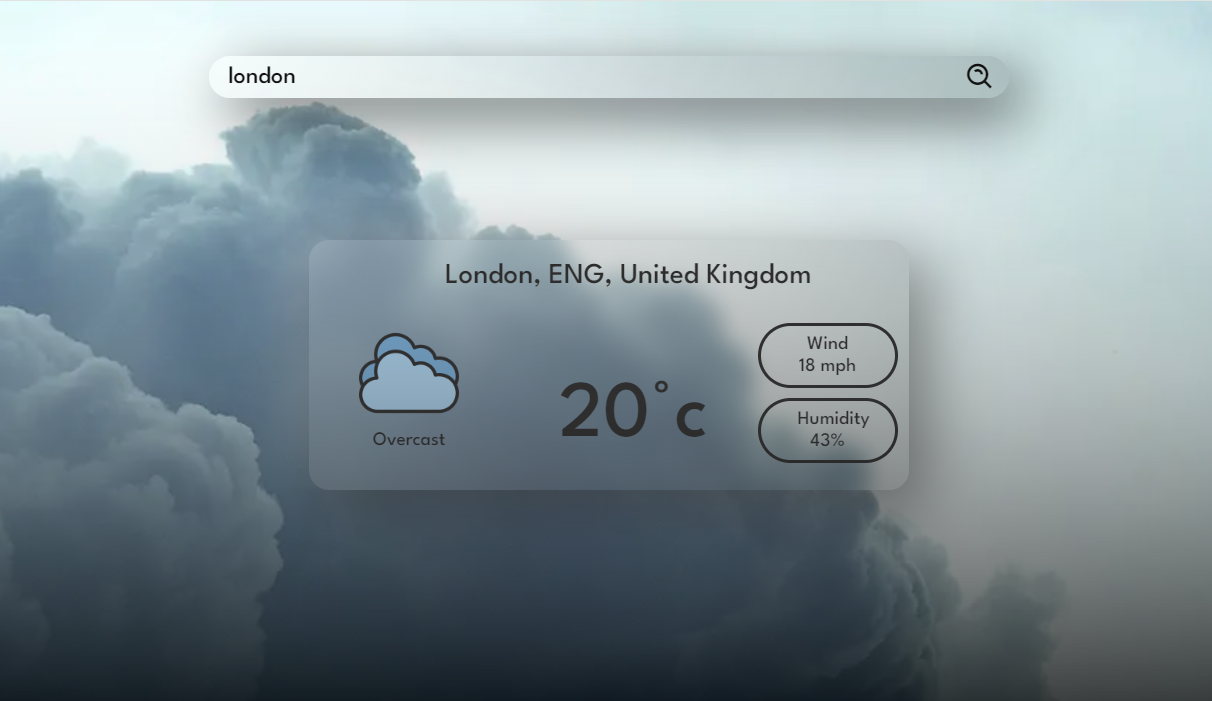
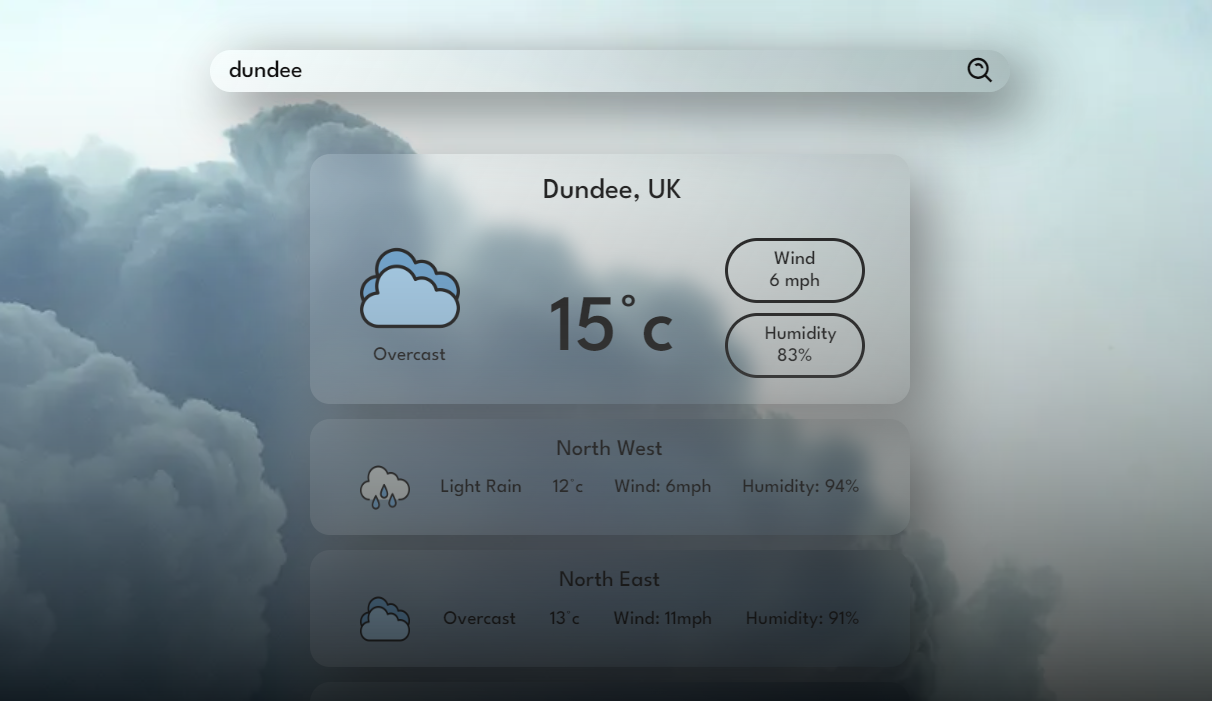
Updated weather section with new API feature

diff --git a/weather.html b/weather.html
@@ -14,28 +14,72 @@
 </head>
 <body>
     <section id="search">
-        <div class="search">
+        <div class="search glass-background">
             <input type="text" id="input" class="input" placeholder="Enter a location..." aria-label="search">
             <button type="button" onclick="displayWeather();" class="submits"><i class='bx bx-search-alt' aria-label="submits"></i></button>
         </div>
     </section>
+
     <section id="report">
-        <div class="report">
-            <h2 id="address" class="address">Address</h2>
+        <div class="report glass-background">
+            <h2 id="address" class="address addressField">Address</h2>
             <div class="weather-wrapper">
-                <img id="weatherImg" src="https://cdn-icons-png.flaticon.com/512/1163/1163739.png" alt="">
-                <p id="weather">Unknown</p>
+                <img class="weatherImgField" src="https://cdn-icons-png.flaticon.com/512/1163/1163739.png" alt="">
+                <p class="weatherField">Unknown</p>
             </div>
-            <h1 class="temperature"><span id="temperature">0</span>°c</h1>
+            <h1 class="temperature"><span class="temperatureField">0</span>°c</h1>
             <div class="other">
                 <div class="wind">
                     <p>Wind</p>
-                    <p><span id="wind">0</span> mph</p>
+                    <p><span class="windField">0</span> mph</p>
                 </div>
                 <div class="humidity">
                     <p>Humidity</p>
-                    <p><span id="humidity">0</span>%</p>
+                    <p><span class="humidityField">0</span>%</p>
                 </div>
+            </div>
+        </div>
+    </section>
+
+    <section id="nearby" >
+        <div class="glass-background">
+            <h3 class="addressField">Address</h3>
+            <div>
+                <img class="weatherImgField" src="https://cdn-icons-png.flaticon.com/512/1163/1163739.png" alt="">
+                <p class="weatherField">Unknown</p>
+                <p><span class="temperatureField">0</span>°c</p>
+                <p>Wind: <span class="windField">0</span>mph</p>
+                <p>Humidity: <span class="humidityField">0</span>%</p>
+            </div>
+        </div>
+        <div class="glass-background">
+            <h3 class="addressField">Address</h3>
+            <div>
+                <img class="weatherImgField" src="https://cdn-icons-png.flaticon.com/512/1163/1163739.png" alt="">
+                <p class="weatherField">Unknown</p>
+                <p><span class="temperatureField">0</span>°c</p>
+                <p>Wind: <span class="windField">0</span>mph</p>
+                <p>Humidity: <span class="humidityField">0</span>%</p>
+            </div>
+        </div>
+        <div class="glass-background">
+            <h3 class="addressField">Address</h3>
+            <div>
+                <img class="weatherImgField" src="https://cdn-icons-png.flaticon.com/512/1163/1163739.png" alt="">
+                <p class="weatherField">Unknown</p>
+                <p><span class="temperatureField">0</span>°c</p>
+                <p>Wind: <span class="windField">0</span>mph</p>
+                <p>Humidity: <span class="humidityField">0</span>%</p>
+            </div>
+        </div>
+        <div class="glass-background">
+            <h3 class="addressField">Address</h3>
+            <div>
+                <img class="weatherImgField" src="https://cdn-icons-png.flaticon.com/512/1163/1163739.png" alt="">
+                <p class="weatherField">Unknown</p>
+                <p><span class="temperatureField">0</span>°c</p>
+                <p>Wind: <span class="windField">0</span>mph</p>
+                <p>Humidity: <span class="humidityField">0</span>%</p>
             </div>
         </div>
     </section>

diff --git a/weather.css b/weather.css
@@ -5,21 +5,25 @@
     font-weight: 500;
     font-style: normal;
 }
-/* Background */
+/* Background Stuff */
 body {
     background-image: url('https://ncas.ac.uk/app/uploads/2020/05/Climate-Weather-Blue-Clouds-1280px.jpg');
     background-attachment: fixed;
     background-size: cover;
 }
-
-/* Search Bar */
-#search {padding: 5vh;}
-.search {
+.glass-background {
     background: transparent;
     background-image: linear-gradient(120deg, rgba(255, 255, 255, 0.3), rgba(0, 0, 0, 0.2));
     -webkit-backdrop-filter: blur(10px);
     backdrop-filter: blur(10px);
+    box-shadow:  20px 20px 60px rgba(0, 0, 0, 0.5), -20px -20px 60px rgba(255, 255, 255, 0.3);
+    border-radius: 20px;
+    margin-bottom: 15px;
+}
 
+/* Search Bar */
+#search {padding: 5vh;}
+.search {
     margin-inline: auto;
     display: flex;
     border: 0px solid black;
@@ -59,19 +63,13 @@ body {
 .input:-webkit-autofill {transition: background-color 5000s ease-in-out 0s;}
 
 /* Weather Display */
-#report {padding: 10vh;}
 .report {
     text-align: center;
-    background: transparent;
-    background-image: linear-gradient(120deg, rgba(255, 255, 255, 0.3), rgba(0, 0, 0, 0.2));
-    -webkit-backdrop-filter: blur(10px);
-    backdrop-filter: blur(10px);
-    box-shadow:  20px 20px 60px rgba(0, 0, 0, 0.5), -20px -20px 60px rgba(255, 255, 255, 0.3);
-
     width: min(600px, 90%);
     margin-inline: auto;
     border-radius: 20px;
     border: 0px solid black;
+
     font-size: 1.2rem;
     max-height: 250px;
 
@@ -88,13 +86,14 @@ body {
 
         & p {
             margin: 5px;
+            white-space: nowrap;
         }
     }
     & img {
         max-width: 100px;
     }
     & .temperature {
-        padding-left: 50px;
+        padding-left: 40px;
         font-size: 5rem;
     }
     & :is(.wind,.humidity) {
@@ -114,3 +113,28 @@ body {
 .weather {grid-area: weather;}
 .temperature {grid-area: temperature;}
 .other {grid-area: other;}
+
+/* Nearby Weather */
+#nearby {
+    text-align: center;
+    width: min(600px, 90%);
+    margin-inline: auto;
+    font-size: 1.2rem;
+
+    & h3 {
+        margin: 0;
+    }
+    & div {
+        padding: 20px 50px;
+
+        & div {
+        display: flex;
+        justify-content: space-between;
+        padding: 0px;
+        }
+    }
+    & img {
+        max-width: 50px;
+        max-height: 50px;
+    }
+}

diff --git a/weather.js b/weather.js
@@ -19,7 +19,9 @@ function displayWeather() {
 
 async function fetchWeather() {
     const location = document.getElementById('input').value;
-    const url = `http://192.168.1.165:5000/${location}`;
+    //const distance = document.getElementById('distance').value;
+    // const url = `http://192.168.1.165:5000/${location}/${distance}`;
+    const url = `http://172.17.123.169:5000/${location}/20`;
 
     response = await fetch(url);
 
@@ -27,10 +29,19 @@ async function fetchWeather() {
 };
 
 function setWeather(weather) {
-    document.getElementById('temperature').innerText = weather[0][0];
-    document.getElementById('weather').innerText = weatherCode[weather[0][1]];
-    document.getElementById('weatherImg').src = weatherImg[weather[0][1]];
-    document.getElementById('wind').innerText = weather[0][2];
-    document.getElementById('humidity').innerText = weather[0][3];
-    document.getElementById('address').innerText = weather[1];
+    const addressList = document.getElementsByClassName('addressField');
+    const weatherList = document.getElementsByClassName('weatherField');
+    const weatherImgList = document.getElementsByClassName('weatherImgField');
+    const temperatureList = document.getElementsByClassName('temperatureField');
+    const windList = document.getElementsByClassName('windField');
+    const humidityList = document.getElementsByClassName('humidityField');
+
+    for (let i = 0; i < weather[1][0].length; i++) {
+        addressList[i].innerText = weather[0][i];
+        weatherList[i].innerText = weatherCode[weather[1][0][i]];
+        weatherImgList[i].src = weatherImg[weather[1][0][i]];
+        temperatureList[i].innerText = weather[1][1][i];
+        windList[i].innerText = weather[1][2][i];
+        humidityList[i].innerText = weather[1][3][i];
+    };
 };
